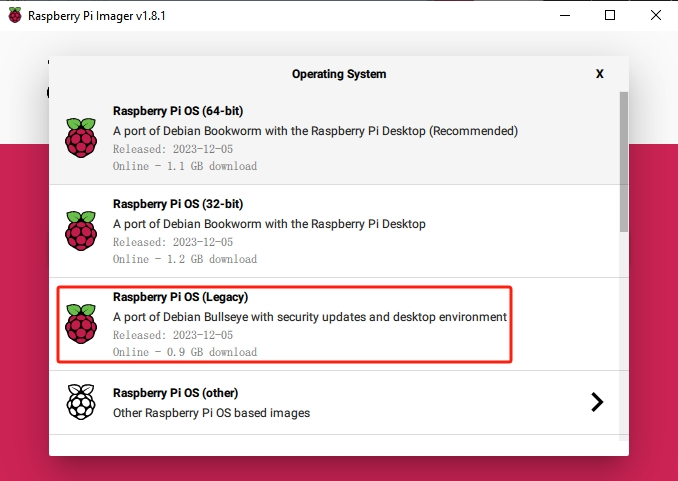
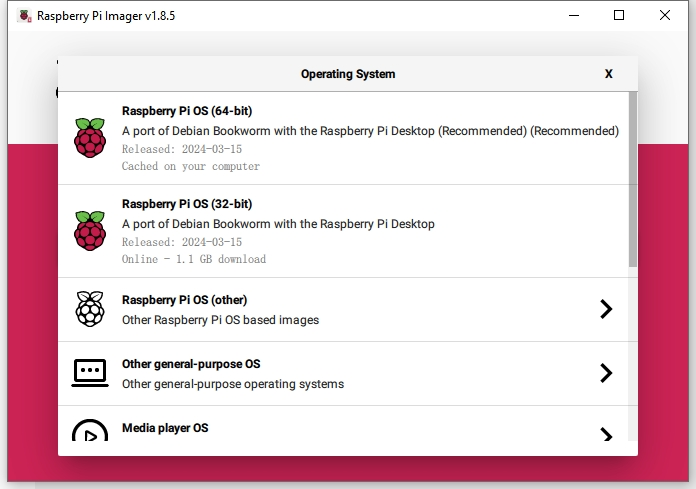
update python start

diff --git a/docs/source/python/python_start/installing_the_os.rst b/docs/source/python/python_start/installing_the_os.rst
@@ -12,43 +12,49 @@
 
     👉 Ready to explore and create with us? Click [|link_sf_facebook|] and join today!
 
+.. _install_os_sd:
+
 2. Installing the OS
-=======================
+============================================================
+
 
 **Required Components**
 
-* Raspberry Pi 5B
 * A Personal Computer
-* A Micro SD card 
+* A Micro SD card and Reader
 
-**Installation Steps**
+1. Install Raspberry Pi Imager
+----------------------------------
 
 #. Visit the Raspberry Pi software download page at `Raspberry Pi Imager <https://www.raspberrypi.org/software/>`_. Choose the Imager version compatible with your operating system. Download and open the file to initiate installation.
 
     .. image:: img/os_install_imager.png
+        :align: center
 
 #. A security prompt may appear during installation, depending on your operating system. For example, Windows might display a warning message. In such cases, select **More info** and then **Run anyway**. Follow the on-screen guidance to complete the installation of the Raspberry Pi Imager.
 
     .. image:: img/os_info.png
-
-#. Insert your SD card into your computer or laptop's SD card slot.
+        :align: center
 
 #. Launch the Raspberry Pi Imager application by clicking its icon or typing ``rpi-imager`` in your terminal.
 
     .. image:: img/os_open_imager.png
+        :align: center
 
-#. Click **CHOOSE DEVICE** and select your specific Raspberry Pi model from the list (Note: Raspberry Pi 5 is not applicable).
+2. Install OS to Micro SD Card
+--------------------------------
+
+#. Insert your SD card into your computer or laptop using a Reader.
+
+#. Within the Imager, click **Raspberry Pi Device** and select the Raspberry Pi model from the dropdown list.
 
     .. image:: img/os_choose_device.png
+        :align: center
 
-#. Select **CHOOSE OS** and then choose **Raspberry Pi OS (Legacy)**.
+#. Select **Operating System** and opt for the recommended operating system version.
 
-    .. warning::
-
-        * Please do not install the **Bookworm** version as the speaker will not work.
-        * You need to install the **Raspberry Pi OS (Legacy)** version - **Debian Bullseye**.
-
-            .. image:: img/os_choose_os.png
+    .. image:: img/os_choose_os.png
+        :align: center
 
 #. Click **Choose Storage** and select the appropriate storage device for the installation.
 
@@ -57,10 +63,16 @@
         Ensure you select the correct storage device. To avoid confusion, disconnect any additional storage devices if multiple ones are connected.
 
     .. image:: img/os_choose_sd.png
+        :align: center
 
-#. Click **NEXT** and then **EDIT SETTINGS** to tailor your OS settings. If you have a monitor for your Raspberry Pi, you can skip the next steps and click 'Yes' to begin the installation. Adjust other settings later on the monitor.
+#. Click **NEXT** and then **EDIT SETTINGS** to tailor your OS settings. 
+
+    .. note::
+
+        If you have a monitor for your Raspberry Pi, you can skip the next steps and click 'Yes' to begin the installation. Adjust other settings later on the monitor.
 
     .. image:: img/os_enter_setting.png
+        :align: center
 
 #. Define a **hostname** for your Raspberry Pi.
 
@@ -69,6 +81,7 @@
         The hostname is your Raspberry Pi's network identifier. You can access your Pi using ``<hostname>.local`` or ``<hostname>.lan``.
 
     .. image:: img/os_set_hostname.png
+        :align: center
 
 #. Create a **Username** and **Password** for the Raspberry Pi's administrator account.
 
@@ -77,6 +90,7 @@
         Establishing a unique username and password is vital for securing your Raspberry Pi, which lacks a default password.
 
     .. image:: img/os_set_username.png
+        :align: center
 
 #. Configure the wireless LAN by providing your network's **SSID** and **Password**.
 
@@ -85,27 +99,35 @@
         Set the ``Wireless LAN country`` to the two-letter `ISO/IEC alpha2 code <https://en.wikipedia.org/wiki/ISO_3166-1_alpha-2#Officially_assigned_code_elements>`_ corresponding to your location.
 
     .. image:: img/os_set_wifi.png
+        :align: center
 
-#. Click **SERVICES** and activate **SSH** for secure, password-based remote access. Remember to save your settings.
+
+#. To remotely connect to your Raspberry Pi, enable SSH in the Services tab.
+
+    * For **password authentication**, use the username and password from the General tab.
+    * For public-key authentication, choose "Allow public-key authentication only". If you have an RSA key, it will be used. If not, click "Run SSH-keygen" to generate a new key pair.
 
     .. image:: img/os_enable_ssh.png
+        :align: center
 
-#. Confirm your selected settings by clicking **Yes**.
+#. The **Options** menu lets you configure Imager's behavior during a write, including playing sound when finished, ejecting media when finished, and enabling telemetry.
+
+    .. image:: img/os_options.png
+        :align: center
+
+    
+#. When you've finished entering OS customisation settings, click **Save** to save your customisation. Then, click **Yes** to apply them when writing the image.
 
     .. image:: img/os_click_yes.png
+        :align: center
 
 #. If the SD card contains existing data, ensure you back it up to prevent data loss. Proceed by clicking **Yes** if no backup is needed.
 
     .. image:: img/os_continue.png
+        :align: center
 
-#. The OS installation process will commence on the SD card. A confirmation dialog will appear upon completion.
+#. When you see the "Write Successful" popup, your image has been completely written and verified. You're now ready to boot a Raspberry Pi from the Micro SD Card!
 
     .. image:: img/os_finish.png
         :align: center
 
-
-#. Insert the SD card set up with Raspberry Pi OS into the microSD card slot located on the underside of the Raspberry Pi.
-
-    .. image:: img/insert_sd_card.png
-        :width: 500
-        :align: center

diff --git a/docs/source/python/python_start/power_supply.rst b/docs/source/python/python_start/power_supply.rst
@@ -45,13 +45,13 @@ Wait for a few seconds, and you will hear a slight beep, indicating that the Ras
 18650 Battery
 -----------------------------------
 
-.. image:: img/3pin_battery.jpg
+.. image:: img/5pin_battery.jpg
 
 * VCC: Battery positive terminal, here there are two sets of VCC and GND is to increase the current and reduce the resistance.
 * Middle: To balance the voltage between the two cells and thus protect the battery.
 * GND: Negative battery terminal.
 
-This is a custom battery pack made by SunFounder consisting of two 18650 batteries with a capacity of 2000mAh. The connector is XH2.54 3P, which can be charged directly after being inserted into the shield.
+This is a custom battery pack made by SunFounder consisting of two 18650 batteries with a capacity of 2000mAh. The connector is XH2.54 5P, which can be charged directly after being inserted into the shield.
 
 **Features**
 
@@ -60,5 +60,5 @@ This is a custom battery pack made by SunFounder consisting of two 18650 batteri
 * Battery capacity: 3.7V 2000mAh x 2
 * Battery life: 90min
 * Battery charge time: 130min
-* Connector:XH2.54 3P
+* Connector:XH2.54 5P
 

diff --git a/docs/source/python/python_start/set_up_your_raspberry_pi.rst b/docs/source/python/python_start/set_up_your_raspberry_pi.rst
@@ -37,9 +37,11 @@ Having a screen simplifies the process of working with your Raspberry Pi.
 
 #. Use the HDMI cable to connect the screen to the Raspberry Pi's HDMI port. Ensure the screen is plugged into a power source and turned on.
 
-#. Power the Raspberry Pi using the power adapter. The Raspberry Pi OS desktop should appear on the screen after a few seconds.
+#. Power the Raspberry Pi using the power adapter.
 
-    .. image:: img/bullseye_desktop.png
+#. After a few seconds, the Raspberry Pi OS desktop will be displayed. Now you can open the Terminal to start entering commands.
+
+    .. image:: img/bookwarm.png
         :align: center
 
 Setting Up Without a Screen

diff --git a/docs/source/python/python_start/remote_desktop.rst b/docs/source/python/python_start/remote_desktop.rst
@@ -64,7 +64,7 @@ VNC service comes pre-installed in the Raspberry Pi OS but is disabled by defaul
     .. image:: img/vnc_viewer2.png
         :align: center
 
-#. You'll now have access to your Raspberry Pi's desktop interface.
+#. After a few seconds, the Raspberry Pi OS desktop will be displayed. Now you can open the Terminal to start entering commands.
 
-    .. image:: img/bullseye_desktop.png
+    .. image:: img/bookwarm.png
         :align: center

diff --git a/docs/source/python/python_start/py_servo_adjust.rst b/docs/source/python/python_start/py_servo_adjust.rst
@@ -14,7 +14,7 @@
 
 .. _py_servo_adjust:
 
-7. Servo Adjust(Importtant)
+7. Servo Adjust(Important)
 ===========================================
 
 The angle range of the servo is -90~90, but the angle set at the factory is random, maybe 0°, maybe 45°; if we assemble it with such an angle directly, it will lead to a chaotic state after the robot runs the code, or worse, it will cause the servo to block and burn out.

diff --git a/docs/source/python/python_start/remote_macosx.rst b/docs/source/python/python_start/remote_macosx.rst
@@ -23,7 +23,7 @@ For Mac OS X users, SSH (Secure Shell) offers a secure and convenient method to 
 
         ssh pi@raspberrypi.local
 
-    .. image:: img/mac_vnc14.png
+    .. image:: img/mac-ping.png
 
 #. A security message will appear during your first login. Respond with **yes** to proceed.
 
